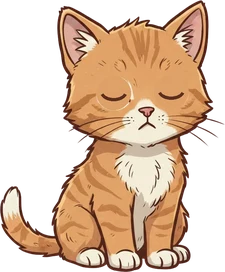
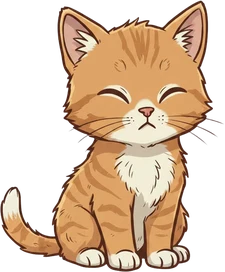
Котик: моргание из кадров Leonardo (рот без улыбки), новая эмоция «котику хорошо»

diff --git a/components/hangar-cat.tsx b/components/hangar-cat.tsx
@@ -5,7 +5,9 @@
 // Рыжий котик в ангаре (user_progress.cat_stage).
 // 1 — выглядывает из-за левой стойки ворот и мяукает «Мяу?». Нажали — «Погладить» или «Подманить колбаской»,
 //     котик выходит, бежит по полу к картонке и садится там (сервер: bringCatHome, cat_stage 1 → 2).
-// 2 — живёт на картонке: сидит и моргает, иногда мяукает; ночью спит клубком; по нажатию мурчит.
+// 2 — живёт на коробке: сидит и моргает, иногда мяукает или жмурится с улыбкой («котику хорошо»); ночью спит
+//     клубком; по нажатию мурчит. Кадры моргания — Leonardo (kitten-closed-eyes-1/2), выровнены по cat-sit; у закрытых
+//     глаз рот подменён ртом из cat-sit, вариант с улыбкой — эмоция happy.
 // Картинки — public/hangar/life/cat-*.webp (Leonardo, исходники docs/hangar/leonardo/cat-*.png), все в одном масштабе:
 // размер позы в сцене = исходный размер (CAT_PX) × масштаб глубины. Координаты сцены — 1024×1024, точка = низ по центру.
 
@@ -16,12 +18,12 @@ import { bringCatHome } from '@/actions/cat'
 import { useAchievementUnlockStore } from '@/store/use-achievement-unlock-store'
 import { playSound, playJustClick, CASE_PRIZE_SOUND } from '@/lib/sound'
 
-type Pose = 'peek' | 'walk-1' | 'walk-2' | 'meow' | 'pet' | 'sniff' | 'sleep' | 'sit' | 'sit-half' | 'sit-closed' | 'sit-shy'
+type Pose = 'happy' | 'peek' | 'walk-1' | 'walk-2' | 'meow' | 'pet' | 'sniff' | 'sleep' | 'sit' | 'sit-half' | 'sit-closed' | 'sit-shy'
 
 // Размер позы в исходных пикселях (обрезка по картинке, до уменьшения).
 const CAT_PX: Record<Pose, [number, number]> = {
     peek: [536, 651], 'walk-1': [767, 659], 'walk-2': [767, 659], meow: [648, 750], pet: [611, 764], sniff: [632, 727],
-    sleep: [672, 453], sit: [626, 755], 'sit-half': [626, 755], 'sit-closed': [626, 755], 'sit-shy': [627, 635],
+    sleep: [672, 453], happy: [626, 755], sit: [626, 755], 'sit-half': [626, 755], 'sit-closed': [626, 755], 'sit-shy': [627, 635],
 }
 const src = (p: Pose) => `/hangar/life/cat-${p}.webp`
 
@@ -125,7 +127,7 @@ export function HangarCat({ stage, bare, night, onHome }: {
     const [phase, setPhase] = useState<'peek' | 'choice' | 'lure' | 'walk' | 'home'>(stage >= 2 ? 'home' : 'peek')
     const [lure, setLure] = useState<'pet' | 'sausage'>('pet')
     const [step, setStep] = useState(0)
-    const [react, setReact] = useState<'pet' | 'meow' | null>(null)
+    const [react, setReact] = useState<'pet' | 'meow' | 'happy' | null>(null)
     const [meowShown, setMeowShown] = useState(true)
     const reactKey = useRef(0)
     const router = useRouter()
@@ -149,12 +151,13 @@ export function HangarCat({ stage, bare, night, onHome }: {
     // дома иногда мяукает сам
     useEffect(() => {
         if (phase !== 'home' || bare || night) return
-        const t = setInterval(() => { if (Math.random() < 0.35) { reactKey.current++; setReact('meow') } }, 14000)
+        // иногда сам мяукает, иногда жмурится от удовольствия («котику хорошо»)
+        const t = setInterval(() => { const r = Math.random(); if (r < 0.3) { reactKey.current++; setReact('meow') } else if (r < 0.6) { reactKey.current++; setReact('happy') } }, 12000)
         return () => clearInterval(t)
     }, [phase, bare, night])
     useEffect(() => {
         if (!react) return
-        const t = setTimeout(() => setReact(null), react === 'pet' ? 1800 : 1200)
+        const t = setTimeout(() => setReact(null), react === 'meow' ? 1200 : react === 'happy' ? 2600 : 1800)
         return () => clearTimeout(t)
     }, [react])
 
@@ -248,18 +251,18 @@ export function HangarCat({ stage, bare, night, onHome }: {
     }
 
     // --- дома, на картонке ---
-    const pose: Pose = night ? 'sleep' : react === 'pet' ? 'pet' : react === 'meow' ? 'meow' : blink
-    const allSit: Pose[] = ['sit', 'sit-half', 'sit-closed', 'pet', 'meow', 'sleep']
+    const pose: Pose = night ? 'sleep' : react ?? blink
+    const allSit: Pose[] = ['sit', 'sit-half', 'sit-closed', 'happy', 'pet', 'meow', 'sleep']
     return (
         <>
             <Cardboard />
             <button type="button" aria-label="Котик" disabled={bare}
                 className="absolute cursor-pointer disabled:cursor-default"
                 style={{ ...box(pose, BED), zIndex: 215 }}
-                onClick={() => { playJustClick(); reactKey.current++; setReact(Math.random() < 0.65 ? 'pet' : 'meow') }}>
+                onClick={() => { playJustClick(); reactKey.current++; const r = Math.random(); setReact(r < 0.45 ? 'happy' : r < 0.8 ? 'pet' : 'meow') }}>
                 <CatImg pose={pose} poses={allSit} />
             </button>
-            {!bare && react === 'pet' && <><Hearts key={reactKey.current} x={BED.x} y={BED.y - 95} /><Bubble x={BED.x + 30} y={BED.y - 96}>Мрр-мрр</Bubble></>}
+            {!bare && (react === 'pet' || react === 'happy') && <><Hearts key={reactKey.current} x={BED.x} y={BED.y - 95} /><Bubble x={BED.x + 30} y={BED.y - 96}>Мрр-мрр</Bubble></>}
             {!bare && react === 'meow' && <Bubble key={reactKey.current} x={BED.x + 34} y={BED.y - 96}>Мяу!</Bubble>}
             {night && (
                 <motion.span className="pointer-events-none absolute font-black text-[#C9D3FF]" style={{ left: pct(BED.x + 30), top: pct(BED.y - 80), zIndex: 1160, fontSize: '3cqw' }}
